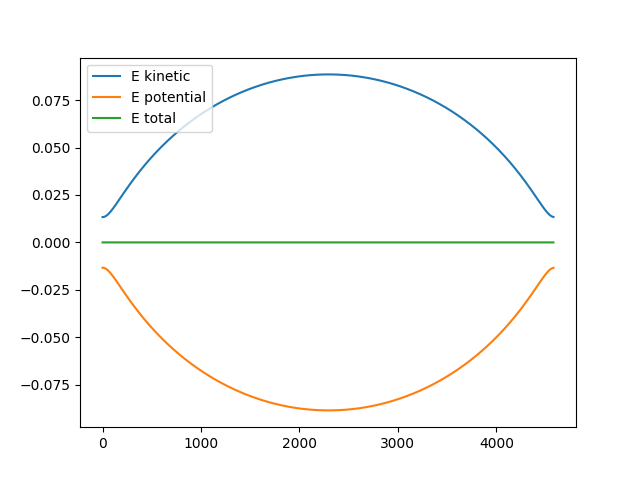
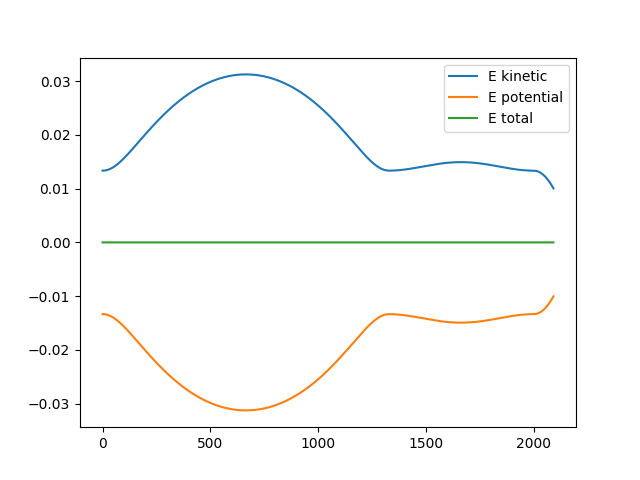
Drag

diff --git a/simulator.py b/simulator.py
@@ -26,9 +26,12 @@ class SimulatorEngine:
         self.M = args["PlanetMass"]
         self.Mr = args["PlanetRadius"]
         self.Or = args["OrbitHeight"] + args["PlanetRadius"]
-        self.scale = args["scale"] # #How much to scale down the system when plotting the points (i am plotting in below 10m, when orbits are thousands of km)
+        self.scale = args["scale"]
         self.startPos = args["initPos"]
         self.startSpeed = args["initSpeed"]
+        self.atmosphere = args["Atmosphere"]
+        self.density = args["Density"]
+        self.LS = args["LS"]
 
         self.satellite = Satellite(mass=100, pos=self.startPos, velocity=self.startSpeed)
         self.planet = Planet(mass=self.M, pos=np.array([0,0,0]), radius=self.Mr)
@@ -86,11 +89,17 @@ class SimulatorEngine:
         
         for i in range(50000):
             entered = np.linalg.norm(self.satellite.pos-self.startPos) < 0.5*self.scale
-            if ((entered == False and prev_state == False) or (entered == False and prev_state == True) or (entered == True and prev_state == True)): #check if we completed an orbital loop. Useless in big systems, so i might remove it
+            if ((entered == False and prev_state == False) or (entered == False and prev_state == True) or (entered == True and prev_state == True)) or not self.LS: #check if we completed an orbital loop. Useless in big systems, so i might remove it
                 dist = np.linalg.norm(self.satellite.pos - self.planet.pos)
                 
-                if dist <= self.Mr:
+                if dist <= self.Mr: #Collision Check
                     break
+                
+                if dist <= self.Mr+self.atmosphere: #atmosphere check
+                    speed = np.linalg.norm(self.satellite.velocity)
+                    dragforce = self.density * speed*speed
+                    drag = -self.satellite.velocity/speed * dragforce
+                    self.satellite.velocity = self.satellite.velocity + drag
                 
                 dir = (self.planet.pos - self.satellite.pos) / dist
                 forceMagnitude = ((self.satellite.mass * self.planet.mass) / dist**2) * self.G
@@ -108,6 +117,7 @@ class SimulatorEngine:
                 energy[2].append([Ek+Ep])
                 
             else:
+                points.append(self.startPos/self.scale)
                 break
             prev_state = entered
         #plt.plot(energy)

diff --git a/simulationsettings.py b/simulationsettings.py
@@ -12,7 +12,11 @@ if SOLVER == "ODE":
     r = 473000 #Высота спутника
     SCALE = 10**6 #Насколько уменьшить размер симуляции (я всё рисую в 10 метрах, когда орбиты могуть быть размером в тысячи км)
     VELOCITY = 6000 #Скорость спутника
-    POSITION = 1
+    
+    POSITION = 1 # не используется солвером ODE
+    ATMOSPHERE = 10  # не используется солвером ODE
+    A_DENSITY = 1 # не используется солвером ODE
+    LOOP_STOP = False # не используется солвером ODE
 else:
     #Change if your solver is PHYS
     M = 1000000
@@ -21,6 +25,9 @@ else:
     SCALE = 1 
     VELOCITY = np.array([0,0.05,0.02], dtype=np.float32)
     POSITION = np.array([4,0,0])
+    ATMOSPHERE = 1 # 0 <= x <= 1 высота атмосферы
+    A_DENSITY = 1 #плотность атмосферы
+    LOOP_STOP = False #Должны ли мы считать только 1 круг или продолжать делать после 1-го другие
 
 
 

diff --git a/vbo.py b/vbo.py
@@ -13,7 +13,10 @@ class VBO:
             "OrbitHeight" : r,
             "scale" : SCALE,
             "initPos" : POSITION,
-            "initSpeed" : VELOCITY
+            "initSpeed" : VELOCITY,
+            "Atmosphere" : ATMOSPHERE,
+            "Density" : A_DENSITY,
+            "LS" : LOOP_STOP,
         }
         self.simulator = SimulatorEngine(simargs)
 

diff --git a/scene.py b/scene.py
@@ -36,4 +36,4 @@ class Scene:
     #def render3D(self):
 
     def renderLine(self):
-        self.trajectory.render(mgl.LINE_LOOP)
+        self.trajectory.render(mgl.LINE_STRIP)
